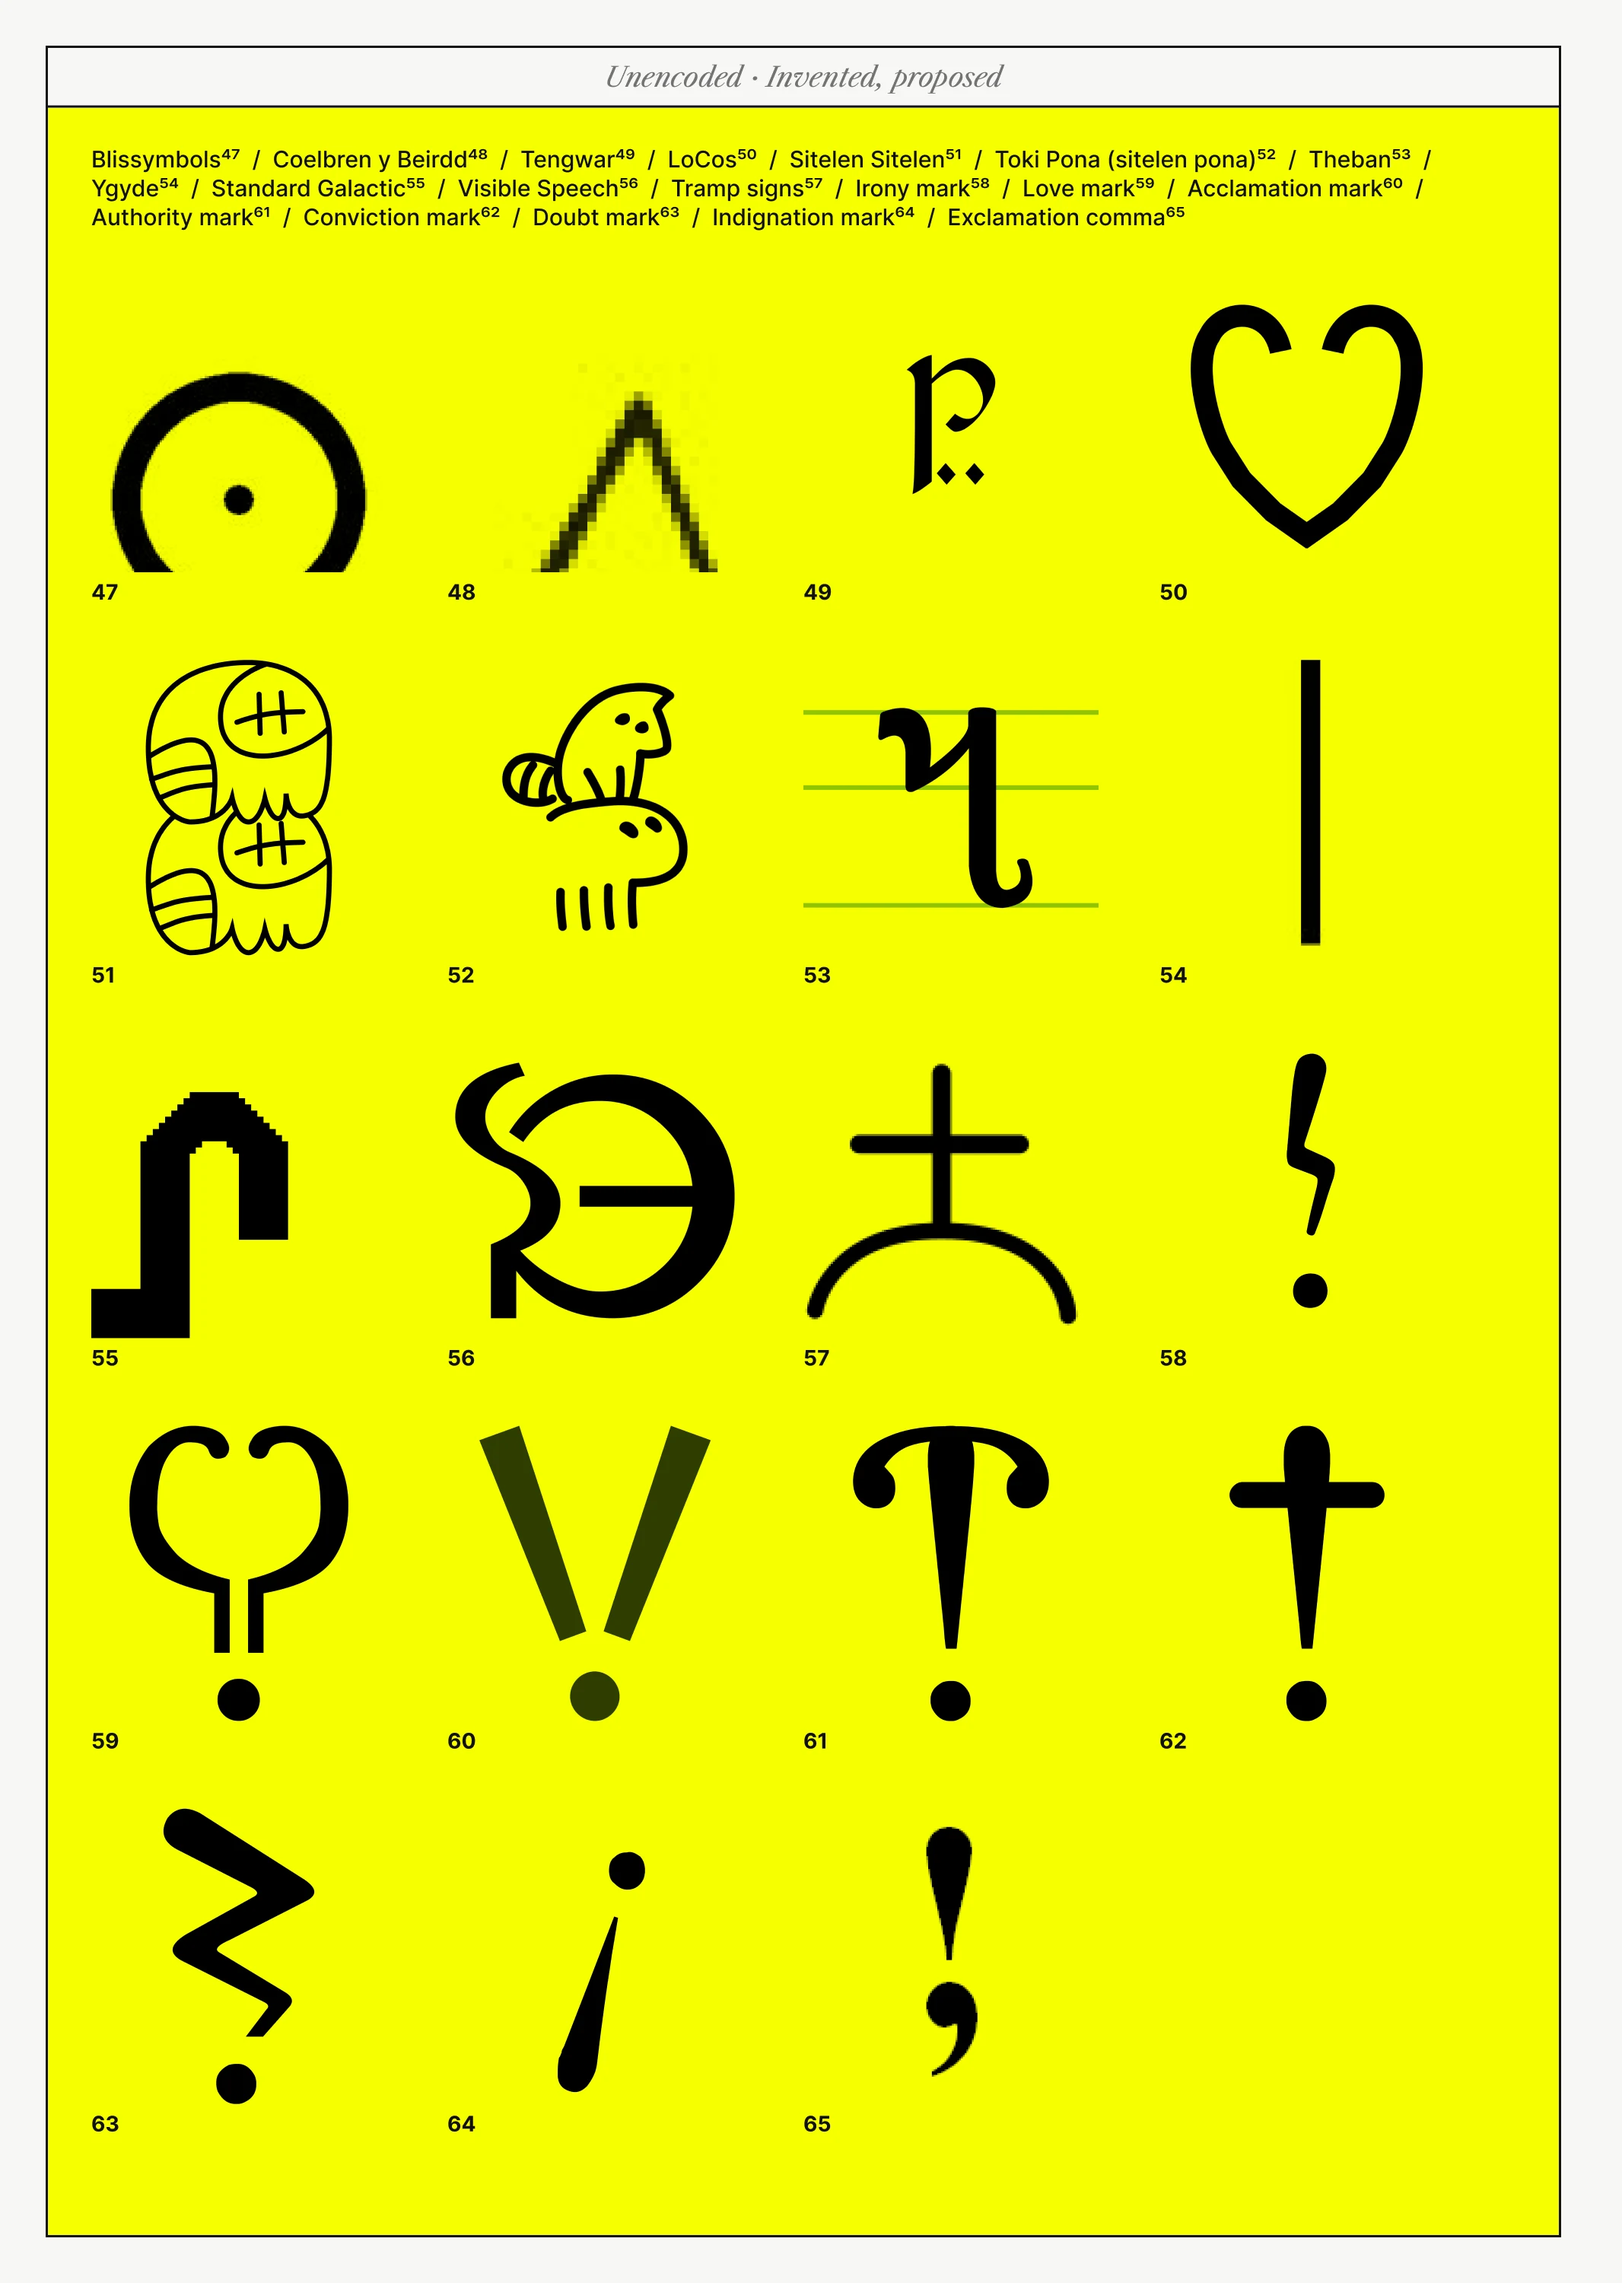
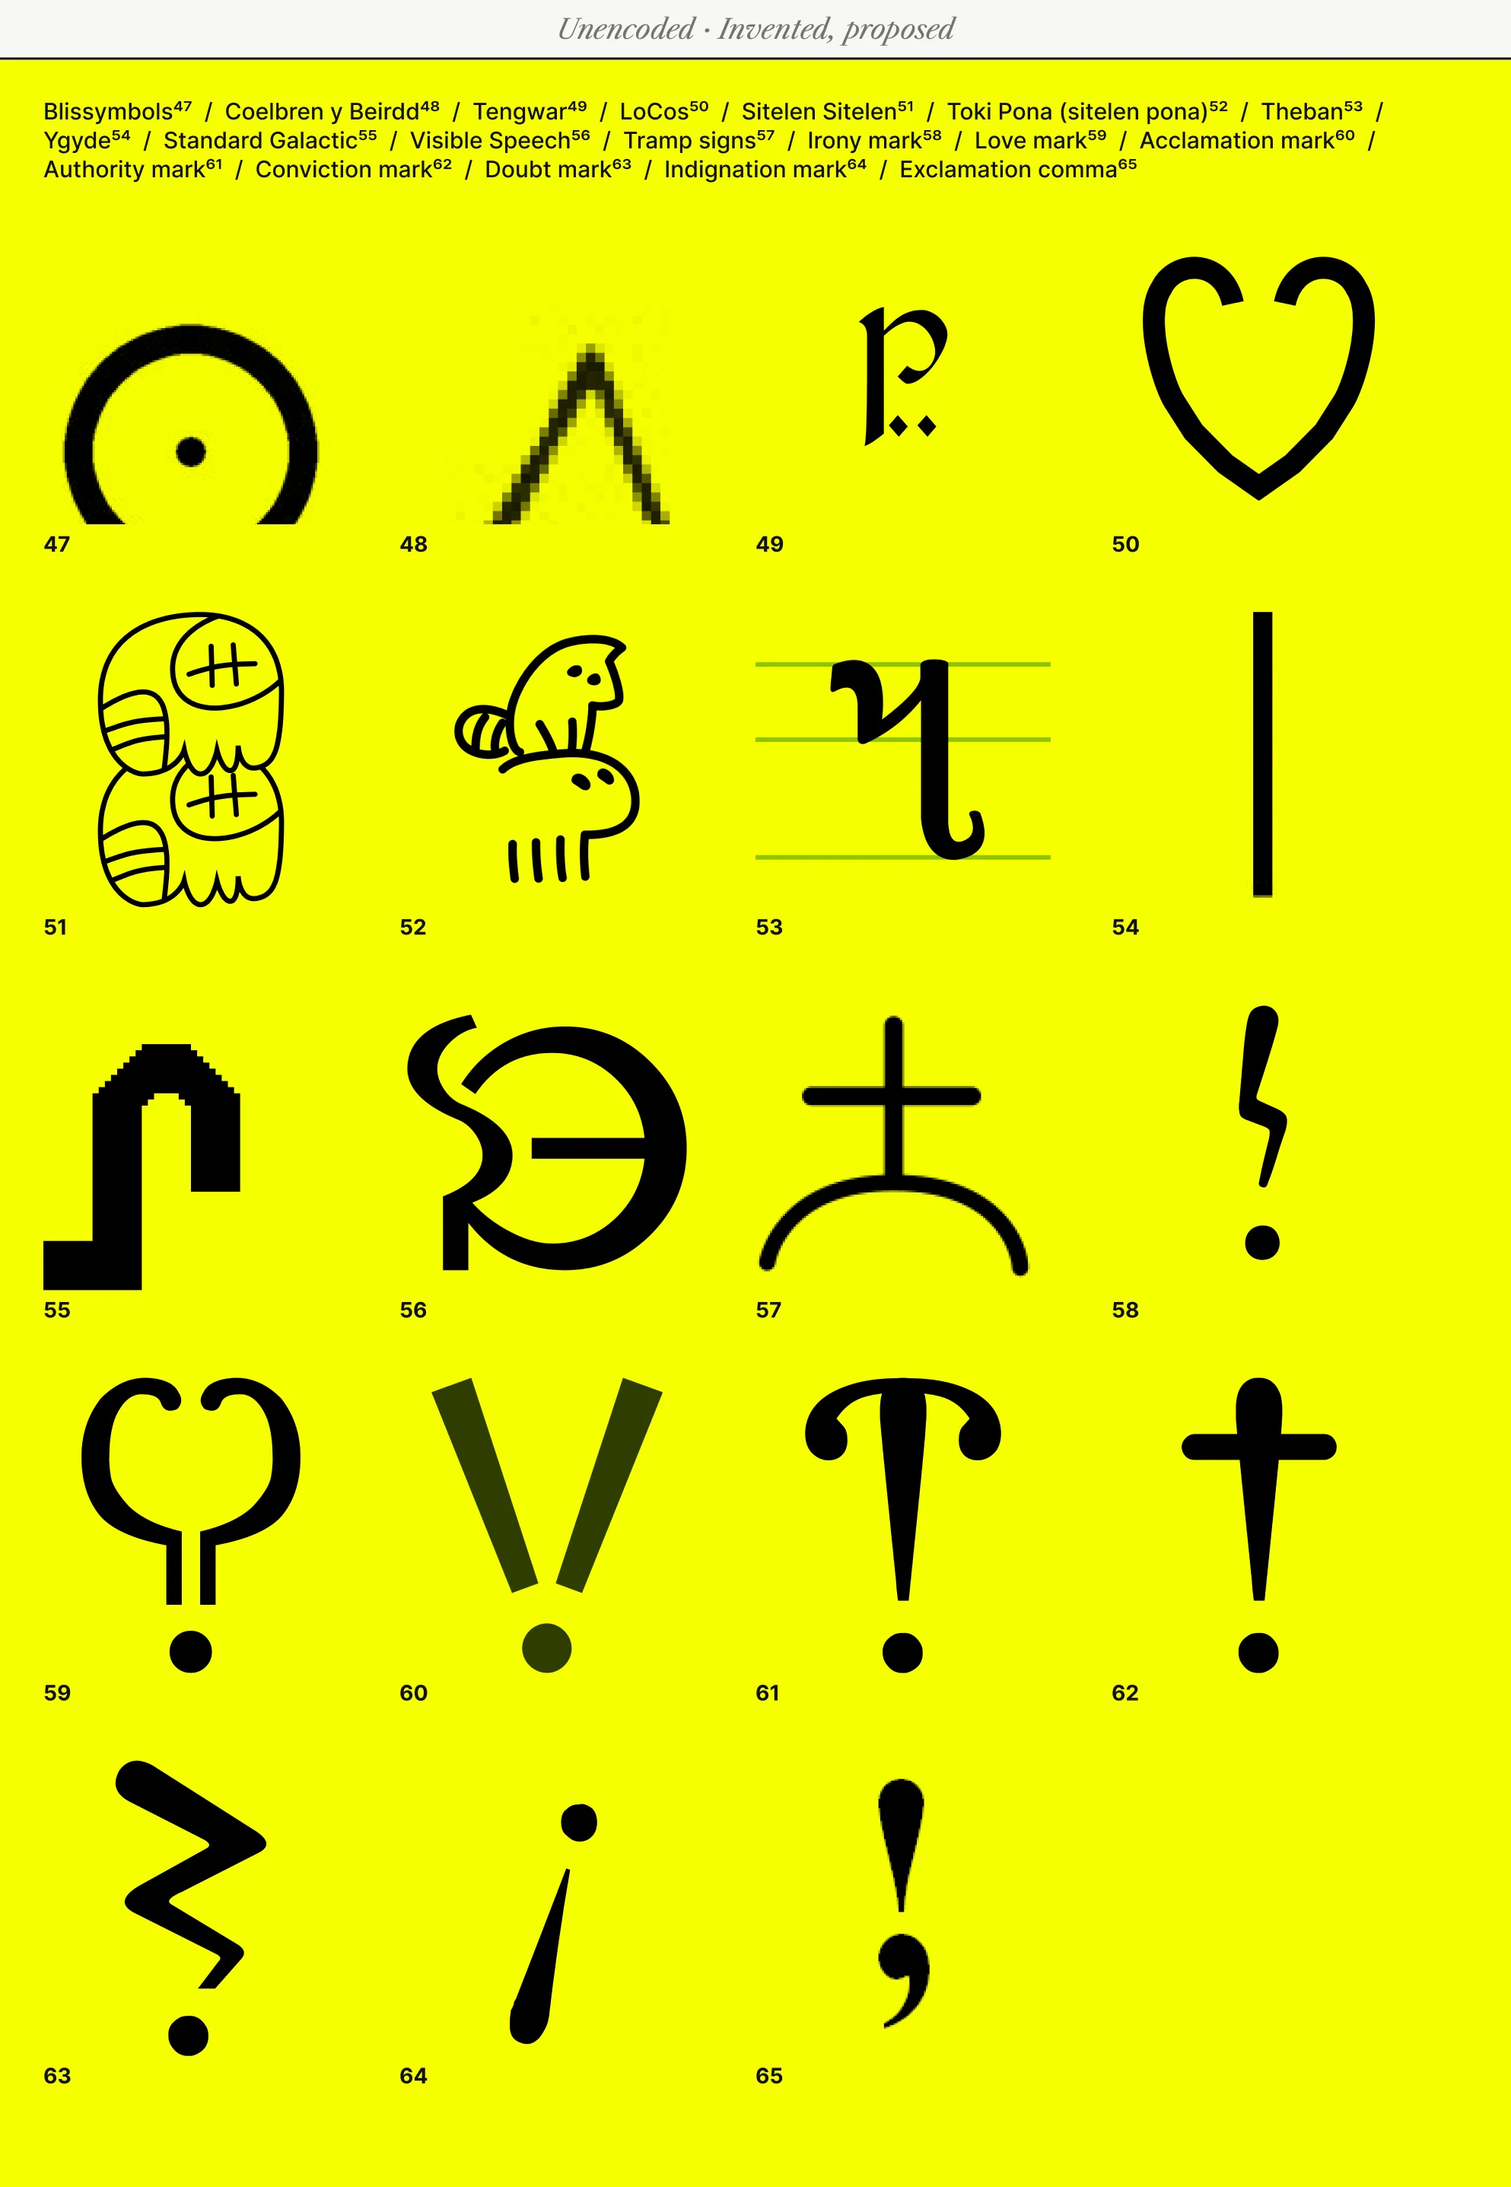
Full-width layout: frames cropped to page area, stacked edge to edge
Claude-Session: https://claude.ai/code/session_01HCNJPpQUMbae7yjueSra48

diff --git a/index.html b/index.html
@@ -11,7 +11,7 @@
 <style>
   :root { --paper:#f7f7f5; --ink:#111; --muted:#777; --yellow:#f5ff00; --orange:#ff6542; }
   * { box-sizing:border-box; margin:0; padding:0; }
-  html { scroll-behavior:smooth; scroll-snap-type:y proximity; }
+  html { scroll-behavior:smooth; }
   @media (prefers-reduced-motion: reduce) { html { scroll-behavior:auto; } }
   body { background:var(--paper); color:var(--ink); font:14px/1.4 Inter, system-ui, -apple-system, sans-serif; }
 
@@ -28,13 +28,11 @@
   nav a.active { background:var(--ink); color:var(--yellow); }
   nav a:focus-visible { outline:3px solid var(--orange); outline-offset:2px; }
 
-  main { display:flex; flex-direction:column; align-items:center; padding:6vh 0 10vh; gap:6vh; }
-  section { width:min(92vw, 860px, calc(92vh * 2132 / 3000 * 1.25)); scroll-snap-align:start; scroll-margin-top:3vh; position:relative; }
-  section img { display:block; width:100%; height:auto; aspect-ratio:2132/3000; background:#eee;
-                box-shadow:0 1px 0 rgba(0,0,0,.05), 0 12px 40px -18px rgba(0,0,0,.35);
-                cursor:zoom-in; transition:transform .25s ease; }
-  section .tag { position:absolute; left:-46px; top:0; font-weight:800; font-size:22px; color:var(--muted); }
-  @media (max-width: 1000px) { section .tag { display:none; } nav a { width:28px; height:28px; font-size:11px; } }
+  /* full-bleed: frames stacked edge to edge across the whole width */
+  main { display:block; }
+  section { width:100%; position:relative; scroll-margin-top:0; }
+  section img { display:block; width:100%; height:auto; aspect-ratio:1986/2874; }
+  nav { mix-blend-mode:normal; }
 
   /* glyph hover (spec: Figma frame "ON HOVER EXAMPLE") */
   section { --cq: 1cqw; container-type: inline-size; }
@@ -58,8 +56,8 @@
   #lightbox img { display:block; width:min(2132px, 180vw); margin:0 auto; }
   #lightbox .close { position:fixed; top:14px; right:18px; color:#fff; font:700 14px Inter, sans-serif; letter-spacing:.05em; }
 
-  footer { text-align:center; color:var(--muted); font-size:12px; padding:0 0 6vh; }
-  .hint { position:fixed; left:16px; bottom:14px; font-size:11px; color:var(--muted); }
+  footer { text-align:center; color:var(--muted); font-size:12px; padding:4vh 0 6vh; }
+  .hint { position:fixed; left:12px; bottom:12px; font-size:11px; color:var(--ink); background:var(--paper); border:1px solid var(--ink); padding:4px 8px; z-index:10; }
   @media (max-width: 700px) { .hint { display:none; } }
 </style>
 </head>
@@ -89,7 +87,7 @@ const FRAMES = [
 const main = document.getElementById('frames'), nav = document.getElementById('nav');
 FRAMES.forEach((f, i) => {
   const s = document.createElement('section'); s.id = f.id;
-  s.innerHTML = `<span class="tag">${f.id}</span><img src="frames/${f.id}.webp" alt="${f.alt}" width="2132" height="3000" ${i>1?'loading="lazy"':''} decoding="async">`;
+  s.innerHTML = `<img src="frames/${f.id}.webp" alt="${f.alt}" width="1986" height="2874" ${i>1?'loading="lazy"':''} decoding="async">`;
   main.appendChild(s);
   addGlyphHovers(s, f.id);
   const a = document.createElement('a'); a.href = '#'+f.id; a.textContent = f.id; a.title = f.alt;

diff --git a/glyphs.js b/glyphs.js
@@ -1,7 +1,10 @@
 // Glyph hover zones, measured from the Figma frames (coordinates in the 2132 × 3000 frame space).
+// The site shows each frame cropped to its page box (no spine/margin/border): 1986 × 2874,
+// starting at x = 83 on left pages (C, E, G, I) and 63 on the others, y = 63.
 // Hover spec from Figma frame "ON HOVER EXAMPLE": glyph grows 388 → 606 px (×1.5619),
 // anchored near its lower-left (origin 21% 88%), and its number turns red (#ff0000).
-const FRAME_W = 2132, FRAME_H = 3000;
+const FRAME_W = 1986, FRAME_H = 2874;
+const CROP_X = id => ('CEGI'.includes(id) ? 83 : 63), CROP_Y = 63;
 
 const NAMES = ['', 'Akai','Avoiuli (Vanuatu)','Bedifeera','Kaidā','Kokborok','Lampung','Loma','Naoriya Phulo','Ranjana','Zungkayu',
   'Gar','Shaaldaa (Oromo)','Dongba (Naxi)','Naxi Geba','Abkhaz-Kabardian','Lontara Bilang-Bilang','Lontara coda marks','Kamarupi (Assamese)',
@@ -42,7 +45,8 @@ function addGlyphHovers(section, id) {
   const pct = (v, total) => (v / total * 100) + '%';
   const layer = document.createElement('div'); layer.className = 'glyphs';
   layer.style.setProperty('--bg', BG[id]);
-  for (const g of list) {
+  for (const g0 of list) {
+    const dx = CROP_X(id), g = { ...g0, x: g0.x - dx, y: g0.y - CROP_Y, nx: g0.nx - dx, ny: g0.ny - CROP_Y };
     const isNum = /^\d+$/.test(g.label);
     const shown = isNum ? pad2(g.label) : (g.label.length < 3 ? 'C0' + g.label.slice(1) : g.label);
     const name = isNum ? NAMES[+g.label] : 'Chinese character ' + g.label;
